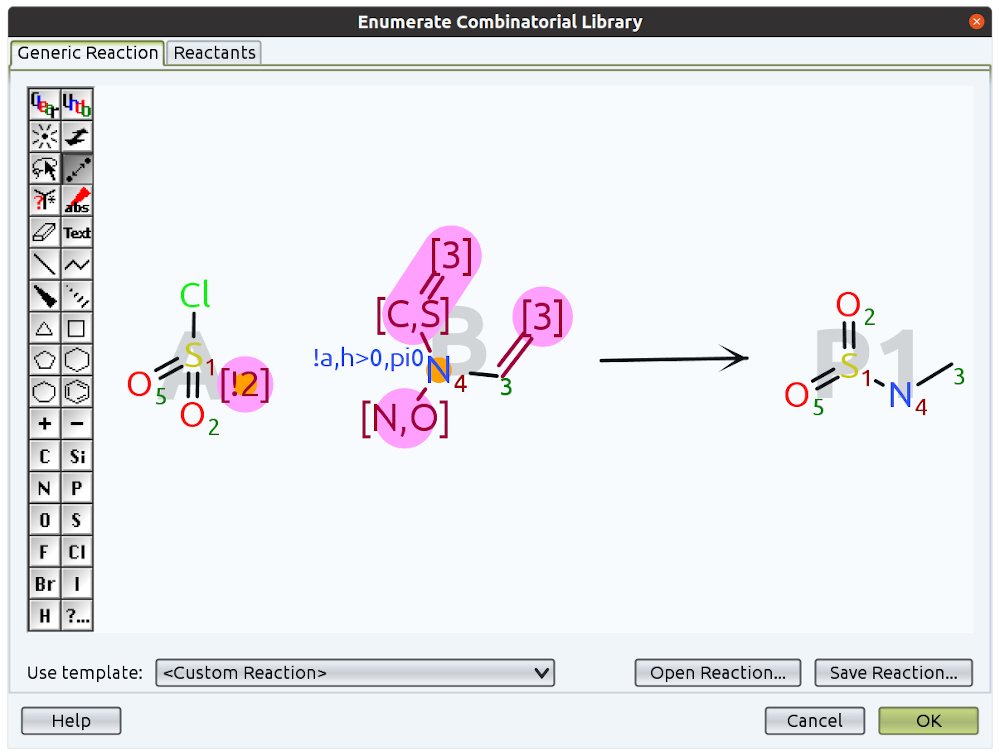
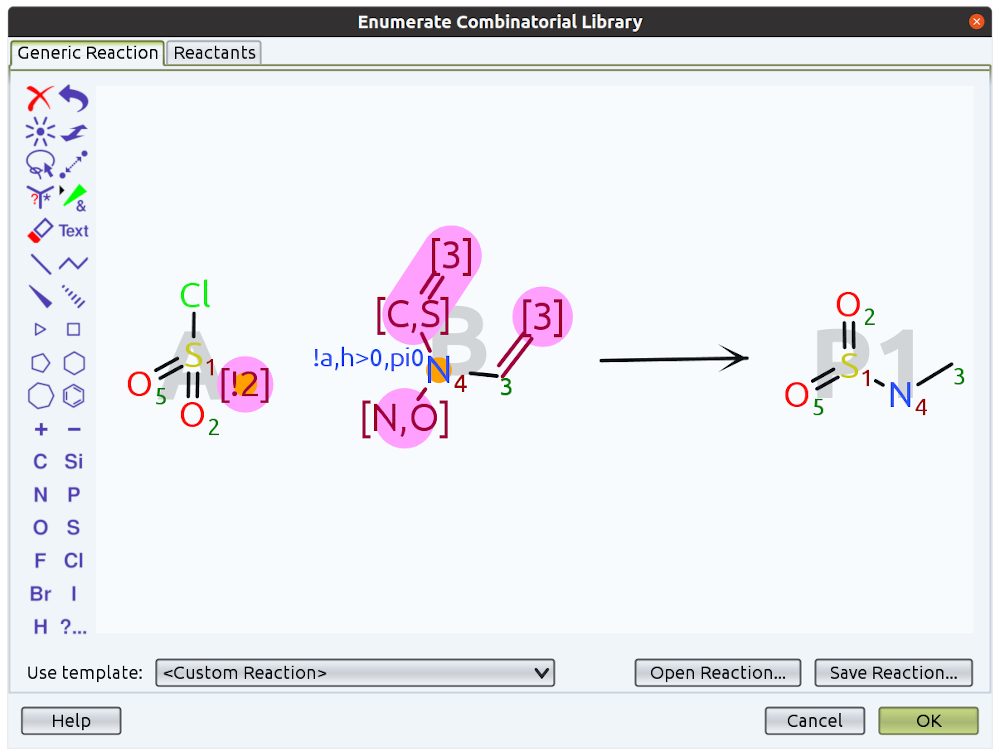
updated images to new editor design

Changed region(s): [[0.0, 0.0913, 0.093, 0.8519]]

diff --git a/src/html/help/chemistry.html b/src/html/help/chemistry.html
@@ -153,7 +153,7 @@ sub-structure search and the similarity search. In the former case you edit a po
 substituted chemical fragment that may contain query features while in
 the latter case you define a complete molecule.</p>
 
-<p align="center"><img src="help/img/chem/editor.jpeg"></p>
+<p align="center"><img src="help/img/chem/editor.jpeg" width="484" height="376"></p>
 <p><center><i>Structure editor in molecule mode.</i></center></p>
 
 <p>To edit a structure one typically selects a tool from the buttons on the left and
@@ -165,8 +165,8 @@ Typing one or more letters changes an atom type. More options to modify an exist
 atom are available in the atom dialog, which opens after a double click on an atom.
 A single click just applies the defined options to the clicked atom.</p>
 
-<p align="center"><img src="help/img/chem/atomDialog.jpeg"></p>
-<p><center><i>Atom dialog to define isotops, abnormal valences and custom atom labels.</i></center></p>
+<p align="center"><img src="help/img/chem/atomDialog.jpeg" width="272" height="229"></p>
+<p><center><i>Atom dialog to define isotops, radical state, abnormal valences and custom atom labels.</i></center></p>
 
 Most of the structure editor's buttons are rather self explanatory, while some
 need a little more explanation. For a detailed description of the editor please
@@ -181,7 +181,7 @@ to narrow the search. A double click on an atom or bond after selecting the lass
 an corresponding atom or bond query feature dialog. If multiple atoms or bonds have been selected,
 then the dialog's settings are applied to all selected atoms or bonds when the dialog is closed.</p>
 
-<p align="center"><img src="help/img/chem/atomQF.jpeg"><br></p>
+<p align="center"><img src="help/img/chem/atomQF.jpeg" width="210" height="406"><br></p>
 <p><center><i>Atom query feature dialog of structure editor in fragment mode.</i></center></p>
 
 <p align="left">The first option in the atom query feature dialog lets you convert
@@ -236,7 +236,7 @@ delocalized and which causes the shared bond between the two rings to be delocal
 In general <span class="keyword">DataWarrior</span> considers aromatic bonds with no
 preferred mesomeric structure as being delocalized.</p>
 
-<p align="center"><img src="help/img/chem/bondQF.jpeg"></p>
+<p align="center"><img src="help/img/chem/bondQF.jpeg" width="179" height="325"></p>
 <p><center><i>Bond query feature dialog of structure editor in fragment mode.</i></center></p>
 
 <p>An <span class="keyword">Atom Bridge</span> option allows to convert any bond of the query
